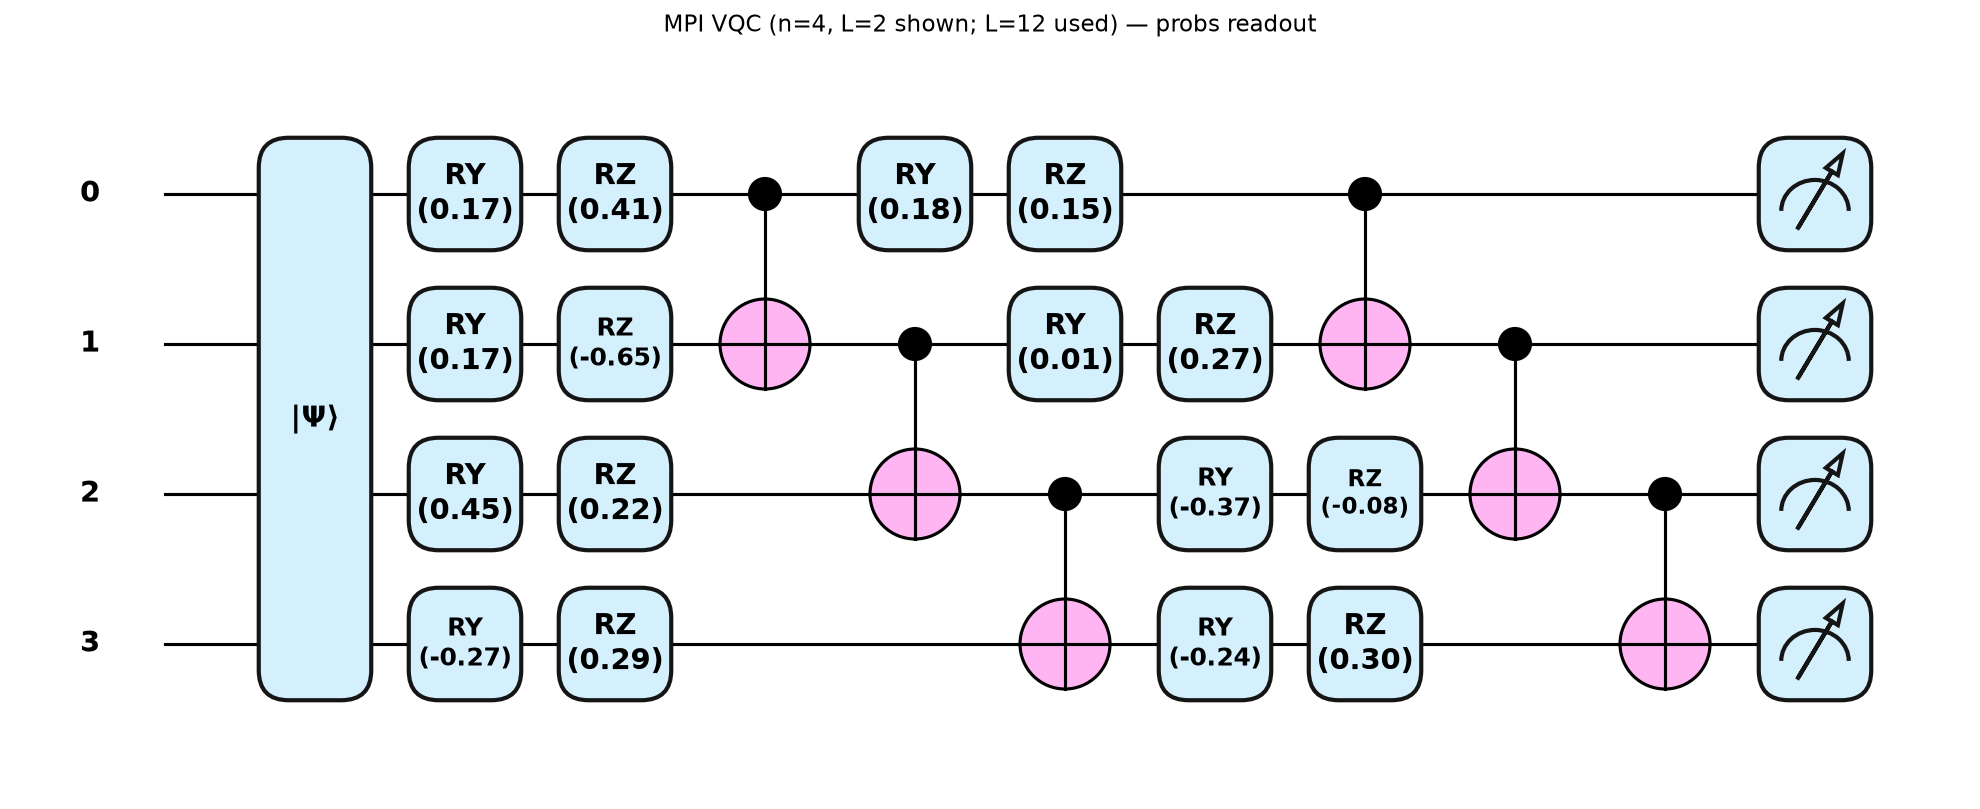
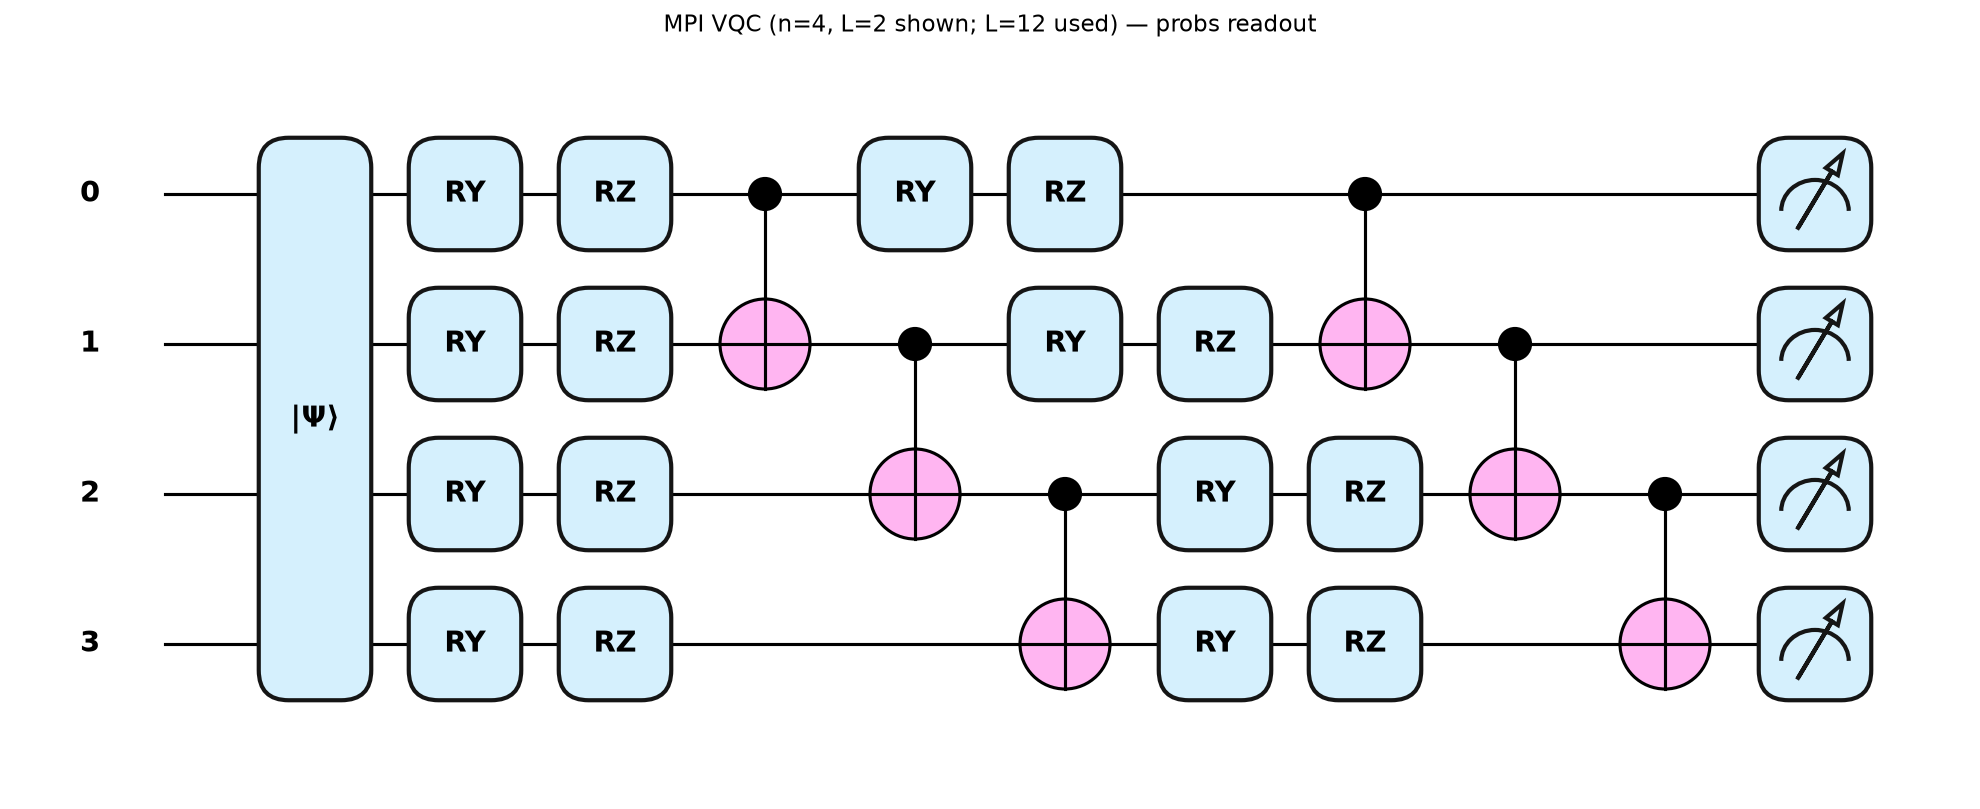
docs(e014): MPI-flow-only mechanism figure (positive, no competitor) + clean circuit (generic RY/RZ, no angle values)
Mechanism figure now shows only our flow (x -> U(θ) shared -> probs -> per-task frozen
observables W1/W2/W3 -> nothing to overwrite), dropping the theta-protection/FORGETS panel
so we don't claim a competitor forgets. Circuit figure: decimals=None -> gates show generic
RY/RZ instead of specific trained angles (cleaner for slides).

diff --git a/scripts/plot_e014_mechanism.py b/scripts/plot_e014_mechanism.py
@@ -1,4 +1,4 @@
-"""One-slide mechanism figure: theta-protection vs MPI. Minimal text, very large fonts."""
+"""One-slide MPI flow figure (ours only, positive framing). Minimal text, very large fonts."""
 
 from __future__ import annotations
 
@@ -16,49 +16,42 @@ FIG = ROOT / "figures"
 
 def _box(ax, x, y, w, h, text, fc, ec, fs, tc="#111"):
     ax.add_patch(FancyBboxPatch((x, y), w, h, boxstyle="round,pad=0.02,rounding_size=0.08",
-                                fc=fc, ec=ec, lw=2.6, zorder=3))
+                                fc=fc, ec=ec, lw=2.8, zorder=3))
     ax.text(x + w / 2, y + h / 2, text, ha="center", va="center", fontsize=fs, zorder=4,
             weight="bold", color=tc)
 
 
-def _arrow(ax, xy1, xy2, color, lw=3.0):
-    ax.add_patch(FancyArrowPatch(xy1, xy2, arrowstyle="-|>", mutation_scale=26, color=color,
+def _arrow(ax, xy1, xy2, color, lw=3.2):
+    ax.add_patch(FancyArrowPatch(xy1, xy2, arrowstyle="-|>", mutation_scale=28, color=color,
                                  lw=lw, zorder=2))
 
 
-def _left(ax):
-    ax.set_title("θ-protection  (EWC / QEWC)", fontsize=21, weight="bold", color="#b02a1f", pad=14)
-    _box(ax, 0.3, 4.2, 2.0, 1.6, "x", "#eef2f7", "#333", 20, tc="#333")
-    _box(ax, 3.2, 3.7, 3.0, 2.6, "U(θ)", "#fadbd8", "#b02a1f", 26, tc="#7b1a12")
-    _box(ax, 7.2, 4.2, 2.4, 1.6, "one\nreadout", "#efefef", "#555", 16, tc="#333")
-    _arrow(ax, (2.3, 5.0), (3.2, 5.0), "#b02a1f")
-    _arrow(ax, (6.2, 5.0), (7.2, 5.0), "#b02a1f")
-    ax.text(4.7, 3.2, "rewritten every task", ha="center", fontsize=15, color="#7b1a12")
-    ax.text(5.0, 1.7, "✗  FORGETS", ha="center", fontsize=34, weight="bold", color="#b02a1f")
-
-
-def _right(ax):
-    ax.set_title("MPI  (ours)", fontsize=21, weight="bold", color="#1e7a34", pad=14)
-    _box(ax, 0.3, 4.2, 1.8, 1.6, "x", "#eef2f7", "#333", 20, tc="#333")
-    _box(ax, 2.9, 3.7, 2.9, 2.6, "U(θ)\nshared", "#d5f0d5", "#1e7a34", 21, tc="#12561f")
-    _arrow(ax, (2.1, 5.0), (2.9, 5.0), "#1e7a34")
-    for i, (hy, lab, fc) in enumerate([(6.7, "W₁", "#bfe6b8"), (4.6, "W₂", "#bcd4ef"),
-                                       (2.5, "W₃", "#d3d3ec")]):
-        _arrow(ax, (5.9, 5.0), (6.7, hy + 0.55), "#888", lw=2.2)
-        _box(ax, 6.7, hy, 1.9, 1.1, lab, fc, "#555", 19)
-    ax.text(7.65, 8.3, "one per task", ha="center", fontsize=15, color="#12561f")
-    ax.text(5.0, 1.7, "✓  REMEMBERS", ha="center", fontsize=34, weight="bold", color="#1e7a34")
-
-
 def main() -> None:
-    fig, (axl, axr) = plt.subplots(1, 2, figsize=(15, 6.2))
-    for ax in (axl, axr):
-        ax.set_xlim(0, 10)
-        ax.set_ylim(0.8, 9)
-        ax.axis("off")
-    _left(axl)
-    _right(axr)
-    fig.suptitle("Where does the memory live?  θ  vs  the measurement",
+    fig, ax = plt.subplots(figsize=(14.5, 6.0))
+    ax.set_xlim(0, 14.5)
+    ax.set_ylim(0.5, 8.2)
+    ax.axis("off")
+
+    green, gedge, gtext = "#d5f0d5", "#1e7a34", "#12561f"
+
+    yc = 4.6
+    _box(ax, 0.3, yc - 0.8, 1.7, 1.6, "x", "#eef2f7", "#333", 24, tc="#333")
+    _box(ax, 2.8, yc - 1.3, 3.3, 2.6, "U(θ)\nshared", green, gedge, 25, tc=gtext)
+    _box(ax, 6.9, yc - 1.0, 1.9, 2.0, "probs\np(x)", "#fbe0c8", "#E15759", 19, tc="#8a2b2c")
+    _arrow(ax, (2.0, yc), (2.8, yc), gedge)
+    _arrow(ax, (6.1, yc), (6.9, yc), gedge)
+
+    for hy, lab, fc in [(6.05, "W₁ · task 1", "#bfe6b8"),
+                        (4.05, "W₂ · task 2", "#bcd4ef"),
+                        (2.05, "W₃ · task 3", "#d3d3ec")]:
+        _arrow(ax, (8.9, yc), (9.8, hy + 0.55), "#888", lw=2.4)
+        _box(ax, 9.8, hy, 3.4, 1.1, lab, fc, "#555", 18)
+
+    ax.text(11.5, 7.5, "one observable per task  (frozen)", ha="center", fontsize=16,
+            weight="bold", color=gtext)
+    ax.text(6.6, 0.9, "✓  each task keeps its own way to measure  →  nothing to overwrite",
+            ha="center", fontsize=16.5, weight="bold", color=gtext)
+    fig.suptitle("MPI — one shared quantum circuit, one measurement per task",
                  fontsize=20, weight="bold")
     fig.tight_layout(rect=(0, 0, 1, 0.93))
     FIG.mkdir(exist_ok=True)

diff --git a/scripts/plot_e014_circuit.py b/scripts/plot_e014_circuit.py
@@ -30,7 +30,7 @@ def draw_authentic(n_layers: int = 2) -> None:
     qnode, shape = make_probs_qnode(n_qubits=4, n_layers=n_layers)
     x = np.random.default_rng(0).standard_normal(16)
     w = 0.5 * np.random.default_rng(1).standard_normal(shape)
-    fig, ax = qml.draw_mpl(qnode, decimals=2, style="pennylane")(
+    fig, ax = qml.draw_mpl(qnode, decimals=None, style="pennylane")(
         pnp.array(x, requires_grad=False), pnp.array(w))
     ax.set_title(f"MPI VQC (n=4, L={n_layers} shown; L=12 used) — probs readout",
                  fontsize=11)
